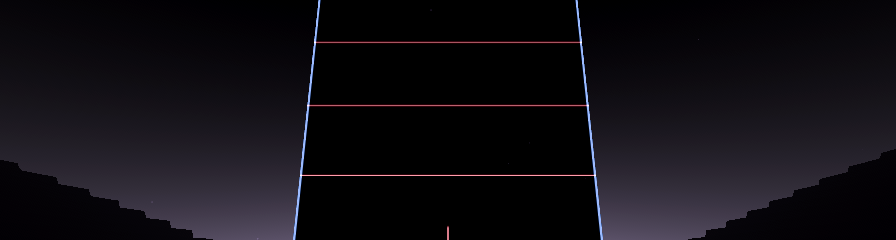
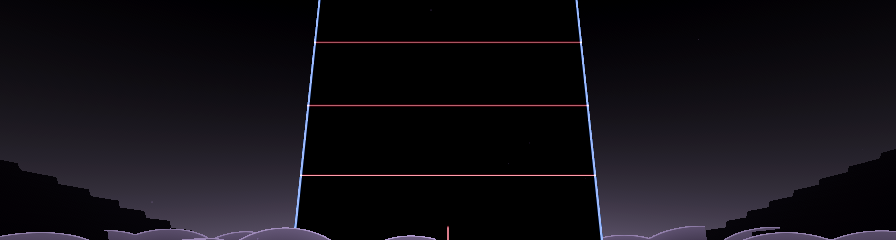
Monolith: stylized cloud flats with rows of round puffs
Owner's reference, 2026-10-31: the clouds are layered upright flats with
puffy tops. The two flat noise planes are replaced by 4 upright rings
(220, 360, 520, 760 m), each a band from the valley floor topped by a row
of overlapping round puffs built into the mesh (no discard, no blending),
light under the top and darker downward, a thin rim on the outline,
farther rings paler. Puffs inside the notes' fly-in (r 320 m) stay below
y -5. Thumbnails rendered again.

Untuned; GPU not yet measured on the headset.

Claude-Session: https://claude.ai/code/session_01XiLHAWRVVgDFZqR7J7F4a3

diff --git a/game/env/AGENTS.md b/game/env/AGENTS.md
@@ -107,7 +107,8 @@ Monolith (one colossal slab down a terraced valley, seen from a tall pillar, abs
   its face to the player (`face_material`), standing on the floor of a valley `VALLEY_Y` below the platform that runs
   the same way; the player's pillar down to it; the valley's sides step up in terraces (`_valley_mesh`: a column of
   vertices on each step edge so steps stay sharp, ending `VALLEY_RADIUS` out, inside the far plane; valley and pillar
-  share `floor_material`); two cloud planes (`CLOUD_LAYERS`) among the terraces. Every terrace above y -5 starts
+  share `floor_material`); upright cloud rings (`CLOUD_RINGS`, `_cloud_ring`: a band up from the valley floor whose top
+  is a row of round puffs, built in the mesh) among the terraces. Every terrace above y -5 starts
   beyond r 320 m, bends included; keep it so when changing the valley's numbers. `foot_spot(share)` and
   `up_face(lean)` place the lasers (`LightRig` "monolith": diagonal beams up the face from its foot, waving lasers
   between; no square bars). Nothing within the notes' 300 m fly-in in any direction (owner's rule, 2026-10-31).
@@ -118,8 +119,8 @@ Monolith (one colossal slab down a terraced valley, seen from a tall pillar, abs
   slit, it closes to `MONOLITH_SLIT_REST`). Soft far edges not on yet: planned for the slab's outline, never its lines.
 - `MonolithFloor.gdshader`: the valley and pillar: dark ground with a neutral `BASE`, the horizon's glow on the far
   ground toward the slab, steep faces darker than treads (slope from screen derivatives, no normals), the slab's shadow
-  falling toward the player as a widening wedge. `MonolithCloud.gdshader`: opaque clouds with holes (discard, no
-  blending), domed up by their own noise, two flat tones (edge band and lit top), drifting. `MonolithSky.gdshader`:
+  falling toward the player as a widening wedge. `MonolithCloud.gdshader`: the cloud rings, opaque (outline in the
+  mesh: no discard, no blending), light under the top darkening downward, a thin rim on the puffs, farther rings paler. `MonolithSky.gdshader`:
   black with a neutral horizon glow behind the slab (`SLAB_DIR` must match `MonolithRig.SLAB_YAW`; no `bg_<type>`) and
   a fainter neutral one all round so the ridges stand as silhouettes.
 

diff --git a/doc/world/SPATIAL_LAYOUT.md b/doc/world/SPATIAL_LAYOUT.md
@@ -101,7 +101,9 @@ Plain boxes in `HengeRig.gd`, every size a named constant there; for 90 and 360 
   terraces up both sides, 15 m higher every 30 m out (4 m steep faces), to ridges about +295 m at 980 m. The first
   terrace above y -5 starts beyond 325 m. The slab stands on the valley floor (top about 950 m away); its shadow falls
   down the valley toward the player.
-- Clouds: two layers at y -50 and -25, domed up to 14 m, 45% and 60% open air, drifting; all below y -5.
+- Clouds (owner's reference, 2026-10-31: stylized flats): 4 upright rings at 220, 360, 520 and 760 m, each a band up
+  from the valley floor topped by a row of round puffs; the 220 m ring's puffs top out near y -11; beyond 320 m they
+  rise to about +60 m at 760 m, hiding the slab's foot.
 - Lights: drawn on the slab's face (edges 3 m, seams 1.5 m every 90 m, slit 2 m, foot strip 2 m); beam fixtures along
   its foot, 2 m in front of the face.
 - Sky: black, a neutral glow low on the horizon behind the slab and a fainter one all round behind the ridges.

diff --git a/doc/world/GAME_BIBLE.md b/doc/world/GAME_BIBLE.md
@@ -62,7 +62,8 @@ See `SPATIAL_LAYOUT.md` (origin, bounds, corridor, exclusion zones) and the root
 - The main form is one symmetric object placed off-centre on purpose (the point of the stage); props still to come.
 - Setting (owner, 2026-10-31): the player stands on a tall pillar in the middle of a valley, looking down on terraces
   stepping away below, the slab ahead down the valley, stylized low clouds drifting among the terraces (owner's pick
-  "clouds among terraces" over "above a sea of cloud" and "clouds only far away").
+  "clouds among terraces" over "above a sea of cloud" and "clouds only far away"). The clouds are stylized like the
+  owner's reference: layered upright flats with rows of round puffs on top and a thin bright rim, paler with distance.
 
 ## Stage stories (agreed with the owner, 2026-10-24, as a first version)
 - Classic: a steel tunnel where a lighting crew rehearses its show. The rings are calibration gates; the moving
